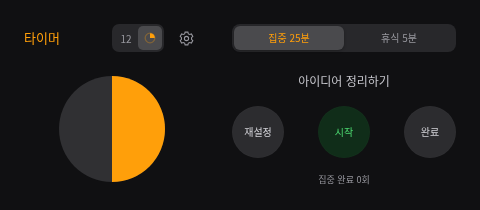
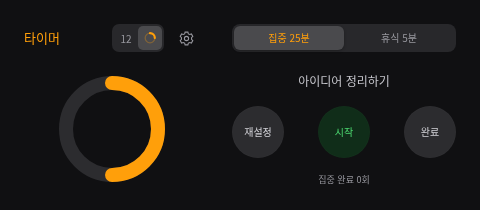
Refine circular timer into a thick rounded orange ring

Changed region(s): [[0.125, 0.3714, 0.3125, 0.8571], [0.3125, 0.1429, 0.3438, 0.2]]

diff --git a/index.html b/index.html
@@ -1,1 +1,1 @@
-<!doctype html><html lang="ko"><head><meta charset="UTF-8"><meta name="viewport" content="width=device-width,initial-scale=1"><title>차곡 · 시계</title><link rel="stylesheet" href="/style.css"></head><body><header><a class="brand" href="/">◷ <b>차곡</b><span>CHAGOK</span></a><span class="header-note">나만의 흐름을 만드는 시계</span><span class="today" id="date"></span></header><main><section class="intro"><div class="eyebrow">YOUR TIME. YOUR PACE.</div><h1>집중할 시간.</h1><p>작업을 설계하고, 작은 시계 창과 함께 집중하세요.</p></section><div class="workspace-head"><div><h2>나의 작업 설계 <span id="course-count"></span></h2><p>오늘의 흐름을 원하는 순서대로 만들어 보세요.</p></div><button class="primary" id="add-course">＋ 새 코스 만들기</button></div><div class="layout"><section><div class="steps"><span class="selected">01 <b>작업 설계</b></span><i>→</i><span>02 <b>시간 배정</b></span><i>→</i><span>03 <b>집중 & 기록</b></span></div><div id="courses"></div><div class="tip">✧ <span>큰 작업은 작은 단계로 나눠 보세요. 시작이 한결 가벼워집니다.</span></div></section><aside><div class="timer-panel"><div class="timer-topbar"><span>시계</span><button id="float-timer" title="항상 위에 표시되는 작은 창 열기">▣ 작은 창으로 띄우기</button></div><div class="clock-tabs"><button id="mode-pomodoro" class="tab-active">포모도로</button><button id="mode-timer">타이머</button><button id="mode-stopwatch">스톱워치</button></div><div id="pomo-controls"><div class="pomo-tabs"><button id="pomo-focus" class="selected">집중 25분</button><button id="pomo-break">휴식 5분</button></div><div class="pomo-settings"><label>집중 <input id="focus-minutes" type="number" min="1" max="180" value="25" aria-label="집중 시간 (분)"> 분</label><label>휴식 <input id="break-minutes" type="number" min="1" max="180" value="5" aria-label="휴식 시간 (분)"> 분</label></div><div class="pomo-track"><div id="pomo-progress"></div></div><p id="pomo-count"></p></div><div class="panel-label"><span>FOCUS TIMER</span><span class="live-dot"></span></div><h3 id="focus-name">집중할 작업을 선택하세요</h3><p id="focus-course">작업 옆 재생 버튼을 눌러 시작하세요</p><div class="timer-view-switch" role="group" aria-label="타이머 표시 방식"><button id="view-numeric" aria-pressed="true">숫자</button><button id="view-circle" aria-pressed="false">원형</button></div><div class="clock" data-timer-view="numeric"><svg id="timer-dial" class="timer-dial" viewBox="0 0 224 224" role="img" aria-label="남은 시간"><circle class="dial-track" cx="112" cy="112" r="108"/><path class="dial-remaining" id="dial-remaining"/></svg><span id="timer">00:00:00</span><small id="timer-state">준비되셨나요?</small></div><div class="timer-actions"><button class="icon-button" id="reset" aria-label="현재 작업 시간 초기화">재설정</button><button class="primary" id="toggle">시작</button></div><button class="complete-button" id="complete">✓ 이 작업 완료하기</button><div class="timer-foot">작은 창으로 띄우면 다른 작업 중에도 볼 수 있어요.</div></div><div class="summary"><h3>오늘의 기록 <span>↗</span></h3><div><span>누적 집중 시간</span><b id="total-time">0분</b></div><div><span>완료한 작업</span><b id="done-count">0 / 0</b></div><div class="progress-track"><div id="progress"></div></div><p id="encouragement">작은 시작도 멋진 진전이에요.</p></div><div class="quote">“시간을 채우기보다,<br>의미 있는 순간을 쌓아가요.”</div></aside></div><footer><span>차곡 · 나의 시간을 설계하는 곳</span><span>모든 기록은 이 브라우저에 자동 저장됩니다.</span></footer></main><dialog id="course-dialog"><form id="course-form"><h2>새로운 코스</h2><p>함께 진행할 작업들을 하나의 코스로 묶어보세요.</p><label>코스 이름<input id="course-title" required maxlength="60" placeholder="예: 사이드 프로젝트 만들기"></label><div class="dialog-actions"><button type="button" id="cancel-dialog">취소</button><button class="primary">만들기</button></div></form></dialog><div id="toast" role="status"></div><script type="module" src="/app.js"></script></body></html>
+<!doctype html><html lang="ko"><head><meta charset="UTF-8"><meta name="viewport" content="width=device-width,initial-scale=1"><title>차곡 · 시계</title><link rel="stylesheet" href="/style.css"></head><body><header><a class="brand" href="/">◷ <b>차곡</b><span>CHAGOK</span></a><span class="header-note">나만의 흐름을 만드는 시계</span><span class="today" id="date"></span></header><main><section class="intro"><div class="eyebrow">YOUR TIME. YOUR PACE.</div><h1>집중할 시간.</h1><p>작업을 설계하고, 작은 시계 창과 함께 집중하세요.</p></section><div class="workspace-head"><div><h2>나의 작업 설계 <span id="course-count"></span></h2><p>오늘의 흐름을 원하는 순서대로 만들어 보세요.</p></div><button class="primary" id="add-course">＋ 새 코스 만들기</button></div><div class="layout"><section><div class="steps"><span class="selected">01 <b>작업 설계</b></span><i>→</i><span>02 <b>시간 배정</b></span><i>→</i><span>03 <b>집중 & 기록</b></span></div><div id="courses"></div><div class="tip">✧ <span>큰 작업은 작은 단계로 나눠 보세요. 시작이 한결 가벼워집니다.</span></div></section><aside><div class="timer-panel"><div class="timer-topbar"><span>시계</span><button id="float-timer" title="항상 위에 표시되는 작은 창 열기">▣ 작은 창으로 띄우기</button></div><div class="clock-tabs"><button id="mode-pomodoro" class="tab-active">포모도로</button><button id="mode-timer">타이머</button><button id="mode-stopwatch">스톱워치</button></div><div id="pomo-controls"><div class="pomo-tabs"><button id="pomo-focus" class="selected">집중 25분</button><button id="pomo-break">휴식 5분</button></div><div class="pomo-settings"><label>집중 <input id="focus-minutes" type="number" min="1" max="180" value="25" aria-label="집중 시간 (분)"> 분</label><label>휴식 <input id="break-minutes" type="number" min="1" max="180" value="5" aria-label="휴식 시간 (분)"> 분</label></div><div class="pomo-track"><div id="pomo-progress"></div></div><p id="pomo-count"></p></div><div class="panel-label"><span>FOCUS TIMER</span><span class="live-dot"></span></div><h3 id="focus-name">집중할 작업을 선택하세요</h3><p id="focus-course">작업 옆 재생 버튼을 눌러 시작하세요</p><div class="timer-view-switch" role="group" aria-label="타이머 표시 방식"><button id="view-numeric" aria-pressed="true">숫자</button><button id="view-circle" aria-pressed="false">원형</button></div><div class="clock" data-timer-view="numeric"><svg id="timer-dial" class="timer-dial" viewBox="0 0 224 224" role="img" aria-label="남은 시간"><circle class="dial-track" cx="112" cy="112" r="94"/><circle class="dial-remaining" id="dial-remaining" cx="112" cy="112" r="94" pathLength="100" stroke-dasharray="100" stroke-dashoffset="0"/></svg><span id="timer">00:00:00</span><small id="timer-state">준비되셨나요?</small></div><div class="timer-actions"><button class="icon-button" id="reset" aria-label="현재 작업 시간 초기화">재설정</button><button class="primary" id="toggle">시작</button></div><button class="complete-button" id="complete">✓ 이 작업 완료하기</button><div class="timer-foot">작은 창으로 띄우면 다른 작업 중에도 볼 수 있어요.</div></div><div class="summary"><h3>오늘의 기록 <span>↗</span></h3><div><span>누적 집중 시간</span><b id="total-time">0분</b></div><div><span>완료한 작업</span><b id="done-count">0 / 0</b></div><div class="progress-track"><div id="progress"></div></div><p id="encouragement">작은 시작도 멋진 진전이에요.</p></div><div class="quote">“시간을 채우기보다,<br>의미 있는 순간을 쌓아가요.”</div></aside></div><footer><span>차곡 · 나의 시간을 설계하는 곳</span><span>모든 기록은 이 브라우저에 자동 저장됩니다.</span></footer></main><dialog id="course-dialog"><form id="course-form"><h2>새로운 코스</h2><p>함께 진행할 작업들을 하나의 코스로 묶어보세요.</p><label>코스 이름<input id="course-title" required maxlength="60" placeholder="예: 사이드 프로젝트 만들기"></label><div class="dialog-actions"><button type="button" id="cancel-dialog">취소</button><button class="primary">만들기</button></div></form></dialog><div id="toast" role="status"></div><script type="module" src="/app.js"></script></body></html>

diff --git a/floating-window.js b/floating-window.js
@@ -58,8 +58,9 @@ body[data-long-time="true"] #mini-timer { font-size: 46px; letter-spacing: -2px;
 .timer-dial { display: none; }
 body[data-timer-view="circle"] .readout { position: relative; align-items: center; justify-content: center; }
 body[data-timer-view="circle"] .timer-dial { display: block; position: absolute; inset: 0; width: 114px; height: 114px; margin: auto; }
-.timer-dial .dial-track { fill: #303033; }
-.timer-dial .dial-remaining { fill: var(--accent); }
+.timer-dial circle { fill: none; stroke-width: 14; }
+.timer-dial .dial-track { stroke: #2c2c2f; }
+.timer-dial .dial-remaining { stroke: var(--accent); stroke-linecap: round; transform: rotate(-90deg); transform-origin: center; }
 body[data-timer-view="circle"] .time-accent, body[data-timer-view="circle"] .pomo-track { display: none; }
 body[data-timer-view="circle"] #mini-timer { display: none; }
 body[data-timer-view="circle"][data-long-time="true"] #mini-timer { font-size: 22px; }
@@ -106,7 +107,7 @@ const markup = `
     <div class="heading-tools">
       <div class="view-switch" role="group" aria-label="타이머 표시 방식">
         <button id="mini-view-numeric" aria-label="숫자 보기" title="숫자 보기" aria-pressed="true">12</button>
-        <button id="mini-view-circle" aria-label="원형 보기" title="원형 보기" aria-pressed="false"><svg width="14" height="14" viewBox="0 0 16 16" fill="none" aria-hidden="true"><circle cx="8" cy="8" r="5.5" stroke="currentColor" stroke-width="1.5" opacity=".3"/><path d="M8 8V2.5A5.5 5.5 0 0 1 13.5 8Z" fill="currentColor"/></svg></button>
+        <button id="mini-view-circle" aria-label="원형 보기" title="원형 보기" aria-pressed="false"><svg width="14" height="14" viewBox="0 0 16 16" fill="none" aria-hidden="true"><circle cx="8" cy="8" r="5.5" stroke="currentColor" stroke-width="1.5" opacity=".3"/><path d="M8 2.5A5.5 5.5 0 0 1 13.5 8" stroke="currentColor" stroke-width="2.5" stroke-linecap="round"/></svg></button>
       </div>
     <button class="settings-toggle" id="mini-settings-toggle" aria-label="시간 설정" aria-expanded="false" aria-controls="mini-settings">
       <svg width="17" height="17" viewBox="0 0 24 24" fill="none" stroke="currentColor" stroke-width="1.5" aria-hidden="true"><circle cx="12" cy="12" r="3"/><path d="m10 3 4 0 .6 2.5 2 .9 2.3-.8 2 3.5-1.8 1.7v2.4l1.8 1.7-2 3.5-2.3-.8-2 .9L14 21h-4l-.6-2.5-2-.9-2.3.8-2-3.5 1.8-1.7v-2.4L3.1 9.1l2-3.5 2.3.8 2-.9Z"/></svg>
@@ -118,7 +119,7 @@ const markup = `
     <button id="mini-pomo-break">휴식</button>
   </div>
   <section class="readout" aria-label="남은 시간">
-    <svg class="timer-dial" viewBox="0 0 114 114" aria-hidden="true"><circle class="dial-track" cx="57" cy="57" r="53"/><path class="dial-remaining" id="mini-dial-remaining"/></svg>
+    <svg class="timer-dial" viewBox="0 0 114 114" aria-hidden="true"><circle class="dial-track" cx="57" cy="57" r="46"/><circle class="dial-remaining" id="mini-dial-remaining" cx="57" cy="57" r="46" pathLength="100" stroke-dasharray="100" stroke-dashoffset="0"/></svg>
     <div class="time-accent" aria-hidden="true"></div>
     <span id="mini-timer"></span>
     <small id="mini-timer-state"></small>
@@ -175,16 +176,9 @@ export function createFloatingClock(doc, { onAction, onDurationChange, onViewCha
   }
 }
 
-// A true filled sector, measured clockwise from twelve o'clock.
-export function remainingSectorPath(fraction, center, radius) {
-  const portion = Math.max(0, Math.min(1, fraction));
-  if (portion === 0) return '';
-  const top = center - radius;
-  if (portion === 1) {
-    return `M ${center} ${top} A ${radius} ${radius} 0 1 1 ${center} ${center + radius} A ${radius} ${radius} 0 1 1 ${center} ${top} Z`;
-  }
-  const angle = -Math.PI / 2 + portion * Math.PI * 2;
-  const x = center + radius * Math.cos(angle);
-  const y = center + radius * Math.sin(angle);
-  return `M ${center} ${center} L ${center} ${top} A ${radius} ${radius} 0 ${portion > .5 ? 1 : 0} 1 ${x} ${y} Z`;
+// Hide an exhausted arc entirely; rounded caps must not leave an orange dot.
+export function updateRemainingRing(element, fraction) {
+  const remaining = Math.max(0, Math.min(1, fraction));
+  element.setAttribute('stroke-dashoffset', String(100 * (1 - remaining)));
+  element.setAttribute('visibility', remaining === 0 ? 'hidden' : 'visible');
 }

diff --git a/style.css b/style.css
@@ -6,6 +6,6 @@
 .pomo-settings{display:flex;justify-content:center;gap:15px;color:#8e8e93;font-size:10px;margin:0 0 13px}.pomo-settings input{background:#2c2c2e;color:#f5f5f7;border:1px solid #48484a;border-radius:5px;width:43px;padding:4px;text-align:center;font-size:11px}
 /* Apple Clock palette and controls */
 .pomo-tabs .selected{background:#48484a;color:#fff}.pomo-track div{background:#ff9f0a}.clock{border-color:#ff9f0a}.clock>span{color:#f5f5f7;font-weight:200}.timer-panel .timer-topbar button{color:#ff9f0a}.pomo-tabs{background:#303034;border-radius:8px;padding:3px;gap:0}.pomo-tabs button{flex:1;background:transparent}.pomo-tabs .selected{box-shadow:0 1px 3px #0005}.pomo-settings{color:#8e8e93}.clock-tabs{margin-bottom:15px}
-.timer-view-switch{display:flex;justify-content:center;gap:2px;width:132px;margin:18px auto 0;padding:3px;background:#303034;border-radius:7px}.timer-view-switch button{flex:1;padding:5px 8px;color:#8e8e93;font-size:10px;border-radius:5px}.timer-view-switch button[aria-pressed="true"]{background:#515154;color:#ff9f0a}.timer-view-switch button:disabled{opacity:.35;cursor:default}.clock[data-timer-view]{position:relative;border:0}.clock .timer-dial{position:absolute;inset:0;width:100%;height:100%;display:none}.clock[data-timer-view="circle"] .timer-dial{display:block}.timer-dial .dial-track{fill:#303033}.timer-dial .dial-remaining{fill:#ff9f0a}.clock>span,.clock>small{position:relative;z-index:1}
+.timer-view-switch{display:flex;justify-content:center;gap:2px;width:132px;margin:18px auto 0;padding:3px;background:#303034;border-radius:7px}.timer-view-switch button{flex:1;padding:5px 8px;color:#8e8e93;font-size:10px;border-radius:5px}.timer-view-switch button[aria-pressed="true"]{background:#515154;color:#ff9f0a}.timer-view-switch button:disabled{opacity:.35;cursor:default}.clock[data-timer-view]{position:relative;border:0}.clock .timer-dial{position:absolute;inset:0;width:100%;height:100%;display:none}.clock[data-timer-view="circle"] .timer-dial{display:block}.timer-dial circle{fill:none;stroke-width:28}.timer-dial .dial-track{stroke:#2c2c2f}.timer-dial .dial-remaining{stroke:#ff9f0a;stroke-linecap:round;transform:rotate(-90deg);transform-origin:center}.clock>span,.clock>small{position:relative;z-index:1}
 
 .clock[data-timer-view="circle"]>#timer,.clock[data-timer-view="circle"]>#timer-state{display:none}

diff --git a/app.js b/app.js
@@ -1,4 +1,4 @@
-import { createFloatingClock, remainingSectorPath } from './floating-window.js';
+import { createFloatingClock, updateRemainingRing } from './floating-window.js';
 
 const $=s=>document.querySelector(s);
 let clockMode="pomodoro",floatingWindow=null;
@@ -49,7 +49,7 @@ function syncFloating(){
  doc.body.dataset.timerView=effectiveTimerView();
  for(const view of ['numeric','circle'])doc.getElementById('mini-view-'+view).setAttribute('aria-pressed',String(effectiveTimerView()===view));
  doc.getElementById('mini-view-circle').disabled=clockMode==='stopwatch';
- doc.getElementById('mini-dial-remaining').setAttribute('d',remainingSectorPath(remainingFraction(),57,53));
+ updateRemainingRing(doc.getElementById('mini-dial-remaining'),remainingFraction());
  doc.body.dataset.longTime=String($('#timer').textContent.length>5);
  if(clockMode==='pomodoro'){const p=state.pomo;doc.getElementById('mini-timer-state').textContent=`${p.phase==='focus'?p.focusMinutes:p.breakMinutes}분 · ${p.phase==='focus'?'집중':'휴식'} ${p.started?'중':'준비'}`;}
  for(const phase of ['focus','break'])doc.getElementById('mini-pomo-'+phase).setAttribute('aria-pressed',String(state.pomo.phase===phase));
@@ -119,7 +119,7 @@ function updateTimerView(){
  for(const type of ['numeric','circle'])$('#view-'+type).setAttribute('aria-pressed',String(view===type));
  $('#view-circle').disabled=clockMode==='stopwatch';
  const fraction=remainingFraction();
- $('#dial-remaining').setAttribute('d',remainingSectorPath(fraction,112,108));
+ updateRemainingRing($('#dial-remaining'),fraction);
  $('#timer-dial').setAttribute('aria-label',`남은 시간 ${Math.round(fraction*100)}퍼센트`);
 }
 function setTimerView(view){

diff --git a/README.md b/README.md
@@ -44,7 +44,7 @@ npm start
 
 ## 숫자 / 원형 보기
 
-본 화면의 **숫자·원형** 버튼이나 작은 창 제목 옆 보기 아이콘으로 전환합니다. 숫자 보기는 남은 시간을 크게 표시하고, 원형 보기는 원 안을 채운 주황색 부채꼴이 남은 시간에 비례해 줄어듭니다. 원형 보기에서는 숫자 시간과 설명을 숨기고 줄어드는 주황색 면만 표시합니다.
+본 화면의 **숫자·원형** 버튼이나 작은 창 제목 옆 보기 아이콘으로 전환합니다. 숫자 보기는 남은 시간을 크게 표시하고, 원형 보기는 가운데를 비운 두꺼운 주황색 링이 남은 시간에 비례해 줄어듭니다. 원형 보기에서는 숫자 시간과 설명을 숨기고 끝이 둥근 주황색 링만 표시합니다.
 
 보기 변경은 실행·일시 정지 상태와 남은 시간에 영향을 주지 않으며 자동 저장됩니다. 포모도로 집중·휴식과 일반 타이머에서 사용할 수 있습니다. 종료 시간이 정해져 있지 않은 스톱워치는 숫자로 표시합니다.
 
